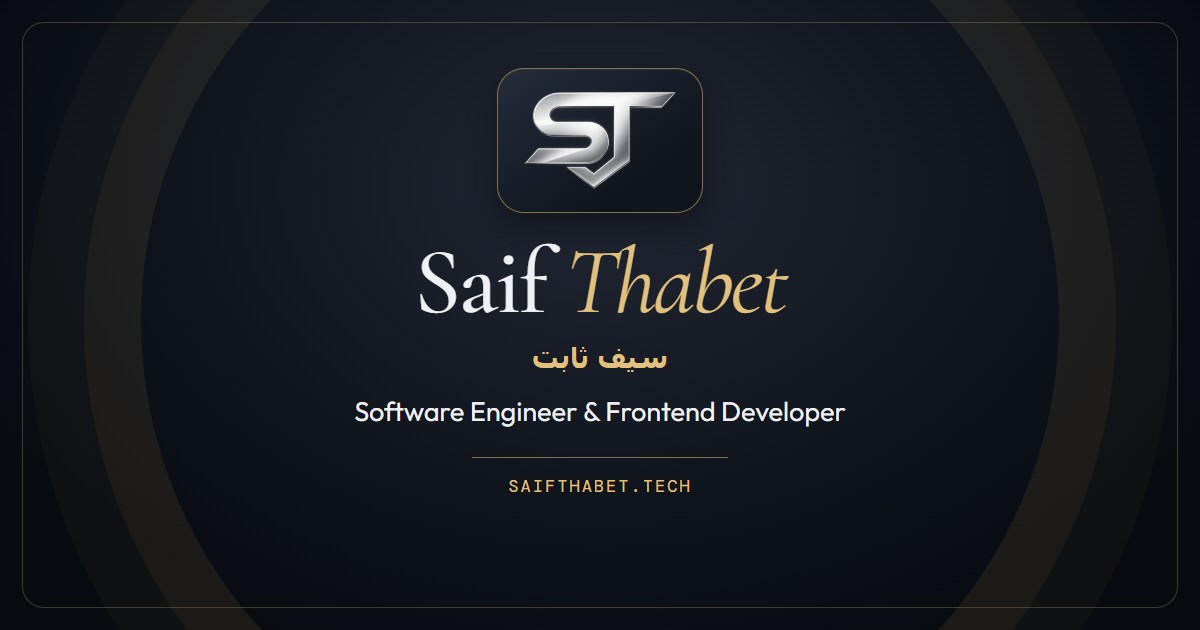
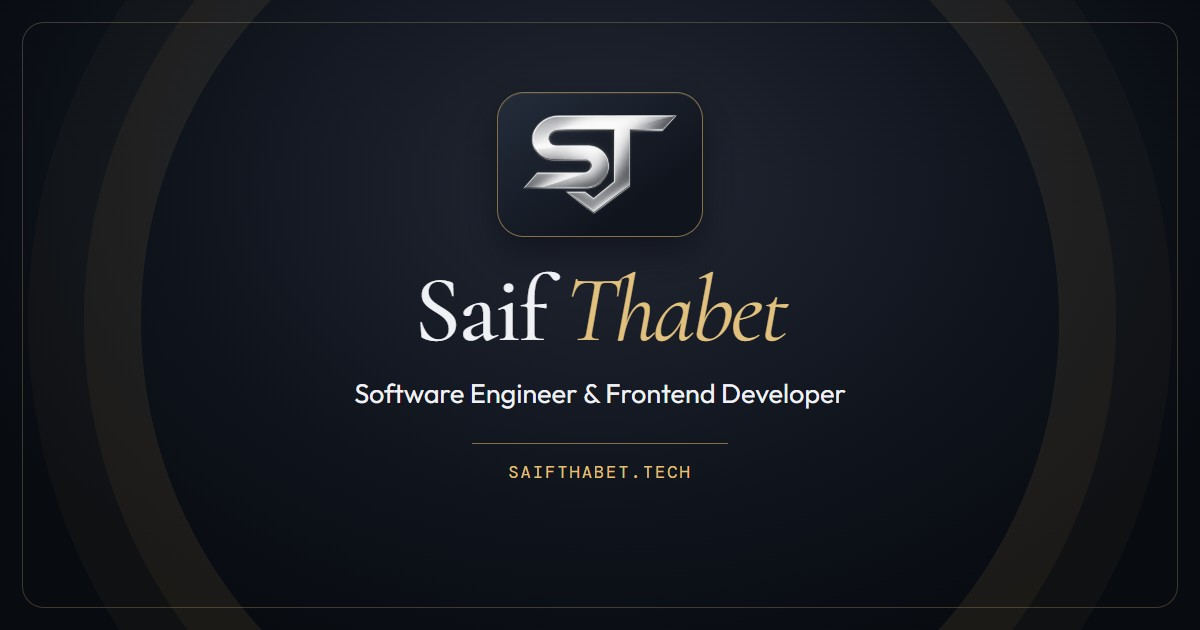
Remove Arabic name from portfolio branding

Changed region(s): [[0.2775, 0.3619, 0.7092, 0.6937], [0.4317, 0.0905, 0.5858, 0.3317], [0.4008, 0.7238, 0.5858, 0.7841]]

diff --git a/index.html b/index.html
@@ -13,7 +13,7 @@
   <meta property="og:title" content="Saif Thabet | Software Engineer &amp; Frontend Developer" />
   <meta property="og:description" content="Saif Thabet is a software engineer and frontend developer based in Sana’a, Yemen. Explore his web projects, professional experience, and contact details." />
   <meta property="og:url" content="https://www.saifthabet.tech/" />
-  <meta property="og:image" content="https://www.saifthabet.tech/saif-thabet-share.jpg" />
+  <meta property="og:image" content="https://www.saifthabet.tech/saif-thabet-share.jpg?v=3b6c5fa4a67b" />
   <meta property="og:image:type" content="image/jpeg" />
   <meta property="og:image:width" content="1200" />
   <meta property="og:image:height" content="630" />
@@ -23,15 +23,15 @@
   <meta name="twitter:card" content="summary_large_image" />
   <meta name="twitter:title" content="Saif Thabet | Software Engineer &amp; Frontend Developer" />
   <meta name="twitter:description" content="Saif Thabet is a software engineer and frontend developer based in Sana’a, Yemen. Explore his web projects, professional experience, and contact details." />
-  <meta name="twitter:image" content="https://www.saifthabet.tech/saif-thabet-share.jpg" />
+  <meta name="twitter:image" content="https://www.saifthabet.tech/saif-thabet-share.jpg?v=3b6c5fa4a67b" />
   <meta name="twitter:image:alt" content="Saif Thabet’s silver monogram and name on a charcoal portfolio card" />
 
   <link rel="icon" href="/favicon.ico" sizes="any" />
   <link rel="icon" href="/favicon-512-optimized.png" type="image/png" sizes="512x512" />
   <link rel="apple-touch-icon" href="/apple-touch-icon.png" />
-  <script type="application/ld+json">{"@context":"https://schema.org","@graph":[{"@type":"WebSite","@id":"https://www.saifthabet.tech/#website","name":"Saif Thabet","alternateName":["Saif Thabet Portfolio","سيف ثابت"],"url":"https://www.saifthabet.tech/","inLanguage":"en"},{"@type":"ProfilePage","@id":"https://www.saifthabet.tech/#profile","url":"https://www.saifthabet.tech/","name":"Saif Thabet | Software Engineer & Frontend Developer","description":"Saif Thabet is a software engineer and frontend developer based in Sana’a, Yemen. Explore his web projects, professional experience, and contact details.","isPartOf":{"@id":"https://www.saifthabet.tech/#website"},"mainEntity":{"@type":"Person","@id":"https://www.saifthabet.tech/#saif-thabet","name":"Saif Thabet","alternateName":"سيف ثابت","url":"https://www.saifthabet.tech/","jobTitle":"Software Engineer & Frontend Developer","homeLocation":{"@type":"Place","name":"Sana’a, Yemen"},"sameAs":["https://www.linkedin.com/in/saif-thabet-25a2702a6"]}}]}</script>
+  <script type="application/ld+json">{"@context":"https://schema.org","@graph":[{"@type":"WebSite","@id":"https://www.saifthabet.tech/#website","name":"Saif Thabet","alternateName":"Saif Thabet Portfolio","url":"https://www.saifthabet.tech/","inLanguage":"en"},{"@type":"ProfilePage","@id":"https://www.saifthabet.tech/#profile","url":"https://www.saifthabet.tech/","name":"Saif Thabet | Software Engineer & Frontend Developer","description":"Saif Thabet is a software engineer and frontend developer based in Sana’a, Yemen. Explore his web projects, professional experience, and contact details.","isPartOf":{"@id":"https://www.saifthabet.tech/#website"},"mainEntity":{"@type":"Person","@id":"https://www.saifthabet.tech/#saif-thabet","name":"Saif Thabet","url":"https://www.saifthabet.tech/","jobTitle":"Software Engineer & Frontend Developer","homeLocation":{"@type":"Place","name":"Sana’a, Yemen"},"sameAs":["https://www.linkedin.com/in/saif-thabet-25a2702a6"]}}]}</script>
   <script src="/theme-init.js?v=37463a6e34d6"></script>
-  <link rel="stylesheet" href="/style.css?v=548e2102d3c6" />
+  <link rel="stylesheet" href="/style.css?v=7108f2546121" />
   <script src="/script.js?v=705cfee3a3c9" defer></script>
 </head>
 <body id="top" data-page="hero">
@@ -83,8 +83,6 @@
         <span class="name__line">Saif</span>
         <span class="name__line name__line--accent">Thabet</span>
       </h1>
-
-      <p class="hero__name-ar" lang="ar" dir="rtl">سيف ثابت</p>
 
       <p class="hero__title"><span class="title__prefix" aria-hidden="true">—</span> Software Engineer &amp; Frontend Developer</p>
 

diff --git a/work.html b/work.html
@@ -13,7 +13,7 @@
   <meta property="og:title" content="Work &amp; Services | Saif Thabet" />
   <meta property="og:description" content="Explore Saif Thabet’s selected website and application projects, web development services, and ways to collaborate." />
   <meta property="og:url" content="https://www.saifthabet.tech/work" />
-  <meta property="og:image" content="https://www.saifthabet.tech/saif-thabet-share.jpg" />
+  <meta property="og:image" content="https://www.saifthabet.tech/saif-thabet-share.jpg?v=3b6c5fa4a67b" />
   <meta property="og:image:type" content="image/jpeg" />
   <meta property="og:image:width" content="1200" />
   <meta property="og:image:height" content="630" />
@@ -23,7 +23,7 @@
   <meta name="twitter:card" content="summary_large_image" />
   <meta name="twitter:title" content="Work &amp; Services | Saif Thabet" />
   <meta name="twitter:description" content="Explore Saif Thabet’s selected website and application projects, web development services, and ways to collaborate." />
-  <meta name="twitter:image" content="https://www.saifthabet.tech/saif-thabet-share.jpg" />
+  <meta name="twitter:image" content="https://www.saifthabet.tech/saif-thabet-share.jpg?v=3b6c5fa4a67b" />
   <meta name="twitter:image:alt" content="Saif Thabet’s silver monogram and name on a charcoal portfolio card" />
 
   <link rel="icon" href="/favicon.ico" sizes="any" />
@@ -31,7 +31,7 @@
   <link rel="apple-touch-icon" href="/apple-touch-icon.png" />
 
   <script src="/theme-init.js?v=37463a6e34d6"></script>
-  <link rel="stylesheet" href="/style.css?v=548e2102d3c6" />
+  <link rel="stylesheet" href="/style.css?v=7108f2546121" />
   <script src="/script.js?v=705cfee3a3c9" defer></script>
 </head>
 <body id="top" data-page="work">

diff --git a/experience.html b/experience.html
@@ -13,7 +13,7 @@
   <meta property="og:title" content="Experience &amp; Skills | Saif Thabet" />
   <meta property="og:description" content="Explore Saif Thabet’s professional experience, education and technical skills, and download his CV." />
   <meta property="og:url" content="https://www.saifthabet.tech/experience" />
-  <meta property="og:image" content="https://www.saifthabet.tech/saif-thabet-share.jpg" />
+  <meta property="og:image" content="https://www.saifthabet.tech/saif-thabet-share.jpg?v=3b6c5fa4a67b" />
   <meta property="og:image:type" content="image/jpeg" />
   <meta property="og:image:width" content="1200" />
   <meta property="og:image:height" content="630" />
@@ -23,7 +23,7 @@
   <meta name="twitter:card" content="summary_large_image" />
   <meta name="twitter:title" content="Experience &amp; Skills | Saif Thabet" />
   <meta name="twitter:description" content="Explore Saif Thabet’s professional experience, education and technical skills, and download his CV." />
-  <meta name="twitter:image" content="https://www.saifthabet.tech/saif-thabet-share.jpg" />
+  <meta name="twitter:image" content="https://www.saifthabet.tech/saif-thabet-share.jpg?v=3b6c5fa4a67b" />
   <meta name="twitter:image:alt" content="Saif Thabet’s silver monogram and name on a charcoal portfolio card" />
 
   <link rel="icon" href="/favicon.ico" sizes="any" />
@@ -31,7 +31,7 @@
   <link rel="apple-touch-icon" href="/apple-touch-icon.png" />
 
   <script src="/theme-init.js?v=37463a6e34d6"></script>
-  <link rel="stylesheet" href="/style.css?v=548e2102d3c6" />
+  <link rel="stylesheet" href="/style.css?v=7108f2546121" />
   <script src="/script.js?v=705cfee3a3c9" defer></script>
 </head>
 <body id="top" data-page="experience">

diff --git a/contact.html b/contact.html
@@ -13,7 +13,7 @@
   <meta property="og:title" content="Contact | Saif Thabet" />
   <meta property="og:description" content="Contact Saif Thabet to discuss a website, frontend development project or collaboration." />
   <meta property="og:url" content="https://www.saifthabet.tech/contact" />
-  <meta property="og:image" content="https://www.saifthabet.tech/saif-thabet-share.jpg" />
+  <meta property="og:image" content="https://www.saifthabet.tech/saif-thabet-share.jpg?v=3b6c5fa4a67b" />
   <meta property="og:image:type" content="image/jpeg" />
   <meta property="og:image:width" content="1200" />
   <meta property="og:image:height" content="630" />
@@ -23,7 +23,7 @@
   <meta name="twitter:card" content="summary_large_image" />
   <meta name="twitter:title" content="Contact | Saif Thabet" />
   <meta name="twitter:description" content="Contact Saif Thabet to discuss a website, frontend development project or collaboration." />
-  <meta name="twitter:image" content="https://www.saifthabet.tech/saif-thabet-share.jpg" />
+  <meta name="twitter:image" content="https://www.saifthabet.tech/saif-thabet-share.jpg?v=3b6c5fa4a67b" />
   <meta name="twitter:image:alt" content="Saif Thabet’s silver monogram and name on a charcoal portfolio card" />
 
   <link rel="icon" href="/favicon.ico" sizes="any" />
@@ -31,7 +31,7 @@
   <link rel="apple-touch-icon" href="/apple-touch-icon.png" />
 
   <script src="/theme-init.js?v=37463a6e34d6"></script>
-  <link rel="stylesheet" href="/style.css?v=548e2102d3c6" />
+  <link rel="stylesheet" href="/style.css?v=7108f2546121" />
   <script src="/script.js?v=705cfee3a3c9" defer></script>
 </head>
 <body id="top" data-page="contact">

diff --git a/style.css b/style.css
@@ -577,16 +577,6 @@ body:not([data-page="hero"]) main > .section:first-child {
   font-style: italic;
 }
 
-.hero__name-ar {
-  width: fit-content;
-  margin: -8px 0 16px;
-  color: var(--accent);
-  font-family: Tahoma, Arial, sans-serif;
-  font-size: 1.25rem;
-  font-weight: 600;
-  line-height: 1.4;
-}
-
 .hero__title {
   font-family: var(--font-mono);
   font-size: clamp(14px, 2vw, 18px);

diff --git a/source/index.html b/source/index.html
@@ -14,8 +14,6 @@
         <span class="name__line name__line--accent">Thabet</span>
       </h1>
 
-      <p class="hero__name-ar" lang="ar" dir="rtl">سيف ثابت</p>
-
       <p class="hero__title"><span class="title__prefix" aria-hidden="true">—</span> Software Engineer &amp; Frontend Developer</p>
 
       <p class="hero__tagline">
